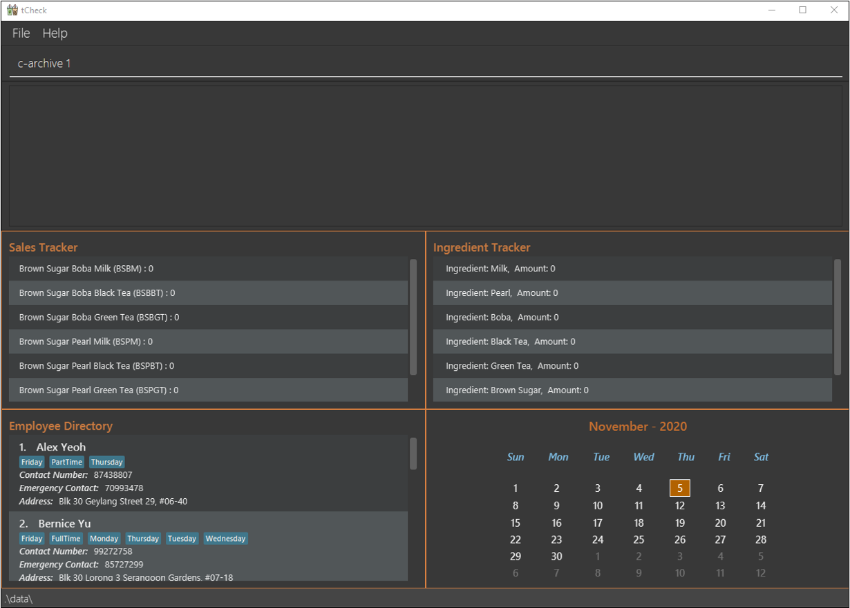
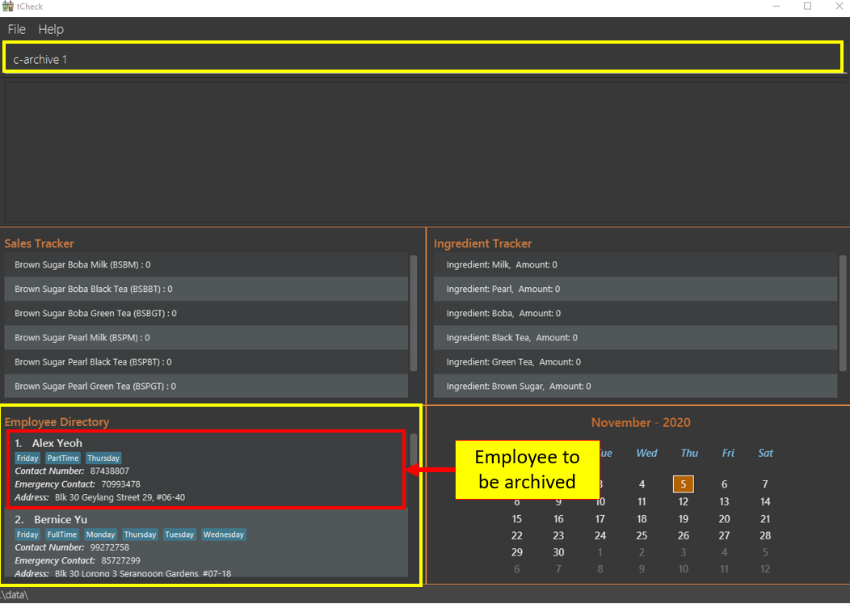
UpdateUG.

diff --git a/docs/UserGuide.md b/docs/UserGuide.md
@@ -625,7 +625,14 @@ PHONE_NUMBER and EMERGENCY_CONTACT must be 8-digit number and start with 8 or 9.
 Example: 
 
 Let's say you want to add an employee called John Doe to the Employee Directory. His phone number is 98765432. His
- emergency contact is 81234567. His address is Blk 123 ABC Road. Assume he is a part-time employee, and he only can work on Friday. So you want to indicate these two characteristics in tCheck. You can assign him two labels, "Friday" and "PartTime" so that you can use find-employees-by-tags features (refer to `c-tag-find` for more details) to find a group of employees by their tag(s). You can follow these instructions:
+ emergency contact is 81234567. His address is Blk 123 ABC Road. 
+ Assume he is a part-time employee, and he only can work on Friday. 
+ So you want to indicate these two characteristics in tCheck. 
+ You can assign him two labels, "Friday" and "PartTime" so that 
+ you can use find-employees-by-tags features (refer to 
+ [`c-tag-find`](#435-locating-employees-based-on-matching-tags-c-tag-find-a-namec-tag-finda)
+  for more details) to find a group of employees
+  by their tag(s). You can follow these instructions:
 
 1. Type `c-add n/John Doe p/98765432 e/81234567 a/Blk 123 ABC Road t/Friday t/PartTime` into the _Command Box_.
 1. Press "Enter" to execute.
@@ -984,11 +991,13 @@ permanently deleting his information, so that you can retrieve/move back his inf
 employee directory when he comes back to work again. To archive the first employee, Alex Yeoh, in the sample data, you
 can follow these instructions:
  
-1. Type `c-archive 1` into the _Command Box_, and press "Enter" to execute.
+1. Type `c-archive 1` into the _Command Box_.
 
     ![ArchiveCommandStep1Screenshot](images/ArchiveCommandStep1Screenshot.png)
     
     _Figure 21a. Screenshot showing the view before executing `c-archive` command_
+    
+2. Press "Enter" to execute.
 
 Outcome:
 
